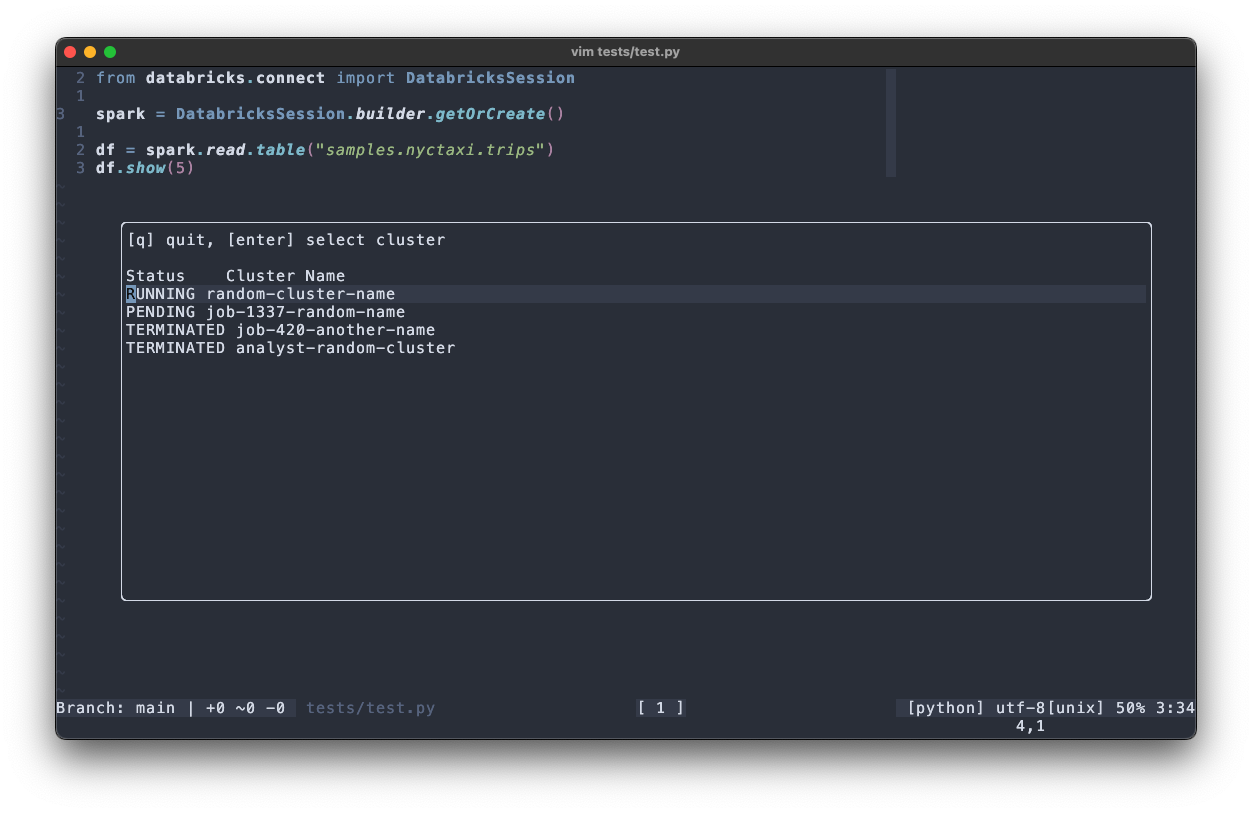
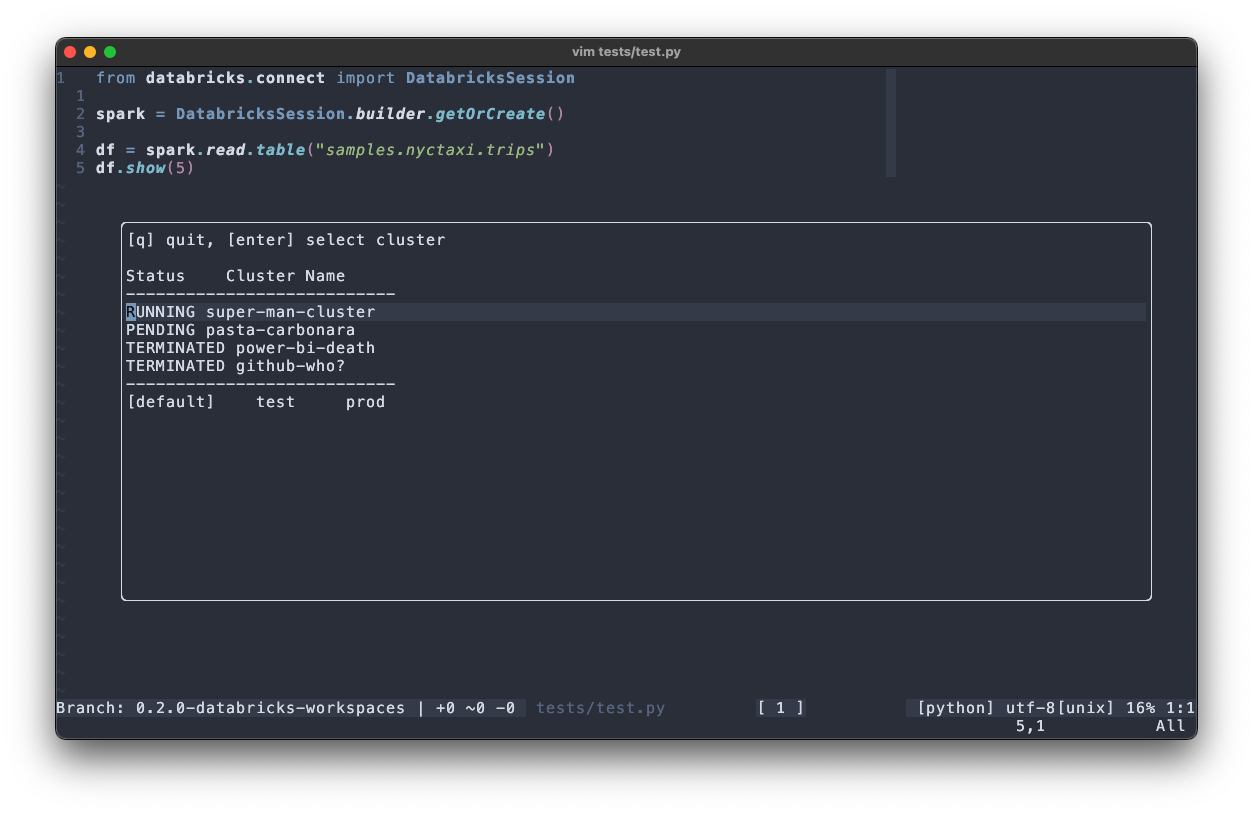
Add tabs functionality in cluster window
The tabs now have a restriction on their buffers to not move outside of
the list of clusters.

Fix augroup and keymaps between tabs

Add roadmap tasks to readme

Add test and image

Update readme version

diff --git a/lua/tests/test.py b/lua/tests/test.py
@@ -1,0 +1,6 @@
+from databricks.connect import DatabricksSession
+
+spark = DatabricksSession.builder.getOrCreate()
+
+df = spark.read.table("samples.nyctaxi.trips")
+df.show(5)

diff --git a/README.md b/README.md
@@ -1,5 +1,5 @@
 <h1 align="center">
-  nvim-databricks (0.1.0-beta)
+  nvim-databricks (0.2.0-beta)
 </h1>
 <p align="center">
 A simple, minimalistic, easily plugin to work with Databricks locally
@@ -71,5 +71,8 @@ vim.api.nvim_set_keymap('n', '<new_keymap>', ':DBOpen')
 
 | Feature | Status |
 | --- | --- |
-| Tabs for workspaces | `Not started` |
+| Tabs for workspaces | ✅ |
+| Setup workspace specific output | 🟨 |
+| Build a `run` module, to utelize lua in memory variables for cluster choosing | 🟨 |
+| Add nerd font images for cluster status etc | 🟨 |
 
